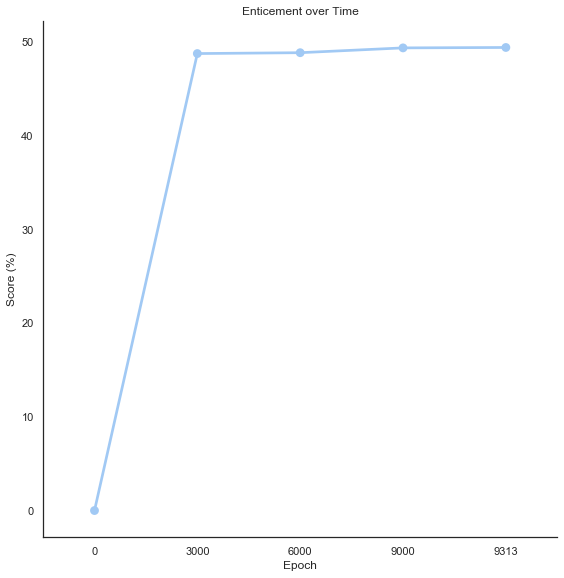
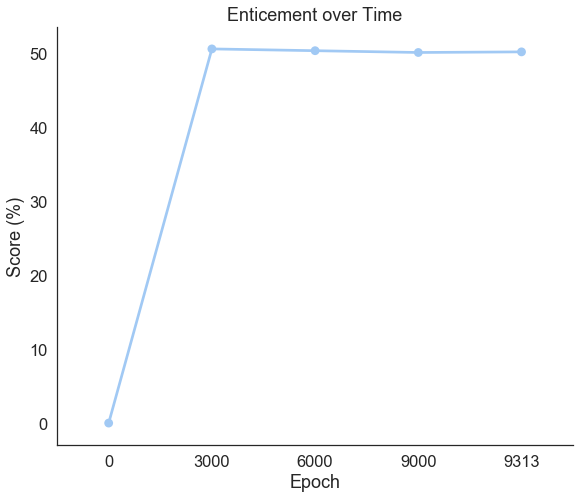
Updated doc images

Changed region(s): [[0.0, 0.0, 0.9947, 0.992]]

diff --git a/gym_push/envs/evalumap2_env.py b/gym_push/envs/evalumap2_env.py
@@ -242,21 +242,22 @@ class EvalUMAP2(gym.Env):
     '''
     def save_results(self, data_set_type, finished):
         
+        sns.set(style='white', font_scale=1.5, palette='pastel')
         tmp = pd.DataFrame(self.ctr_results)
         ax = sns.catplot(x="epoch", y="ctr_score", hue="model", 
-                         kind="point", data=tmp, height=8, ci=None)
+                         kind="point", data=tmp, height=8, aspect=1, ci=None)
         ax.set(xlabel='Epoch', ylabel='CTR (%)', title='Click-Through-Rate over Time')
         plt.savefig(self.dir_path+'/results/'+data_set_type+'/task2/ctr_results.png', bbox_inches='tight')
 
         tmp = pd.DataFrame(self.diversity_results)
         ax = sns.catplot(x="epoch", y="score", 
-                         kind="point", data=tmp, height=8, ci=None)
+                         kind="point", data=tmp, height=7, aspect=1.2, ci=None)
         ax.set(xlabel='Epoch', ylabel='Score (%)', title='Diversity over Time')
         plt.savefig(self.dir_path+'/results/'+data_set_type+'/task2/diversity_results.png', bbox_inches='tight')
 
         tmp = pd.DataFrame(self.enticement_results)
         ax = sns.catplot(x="epoch", y="score", 
-                         kind="point", data=tmp, height=8, ci=None)
+                         kind="point", data=tmp, height=7, aspect=1.2, ci=None)
         ax.set(xlabel='Epoch', ylabel='Score (%)', title='Enticement over Time')
         plt.savefig(self.dir_path+'/results/'+data_set_type+'/task2/enticement_results.png', bbox_inches='tight')
         

diff --git a/README.md b/README.md
@@ -178,19 +178,19 @@ When run, results should approximate:
 Resetting environment.
 Updated results at epoch:  3000
 ------------- Epoch: 3000 ------------------
-Latest CTR score 21.959346884371875
+Latest CTR score 22.692435854715097
 Latest Diversity score 100.0
-Latest Enticement score 52.0326557814062
+Latest Enticement score 50.566477840719756
 Updated results at epoch:  6000
 ------------- Epoch: 6000 ------------------
-Latest CTR score 21.379770038326946
+Latest CTR score 22.42959506748875
 Latest Diversity score 100.0
-Latest Enticement score 50.733211131478086
+Latest Enticement score 50.324945842359604
 Updated results at epoch:  9000
 ------------- Epoch: 9000 ------------------
-Latest CTR score 21.475391623152984
+Latest CTR score 22.041995333851794
 Latest Diversity score 100.0
-Latest Enticement score 50.205532718586824
+Latest Enticement score 50.083324075102766
 Finished. Saving final results at epoch:  9313
 ```
 <p align="center">
